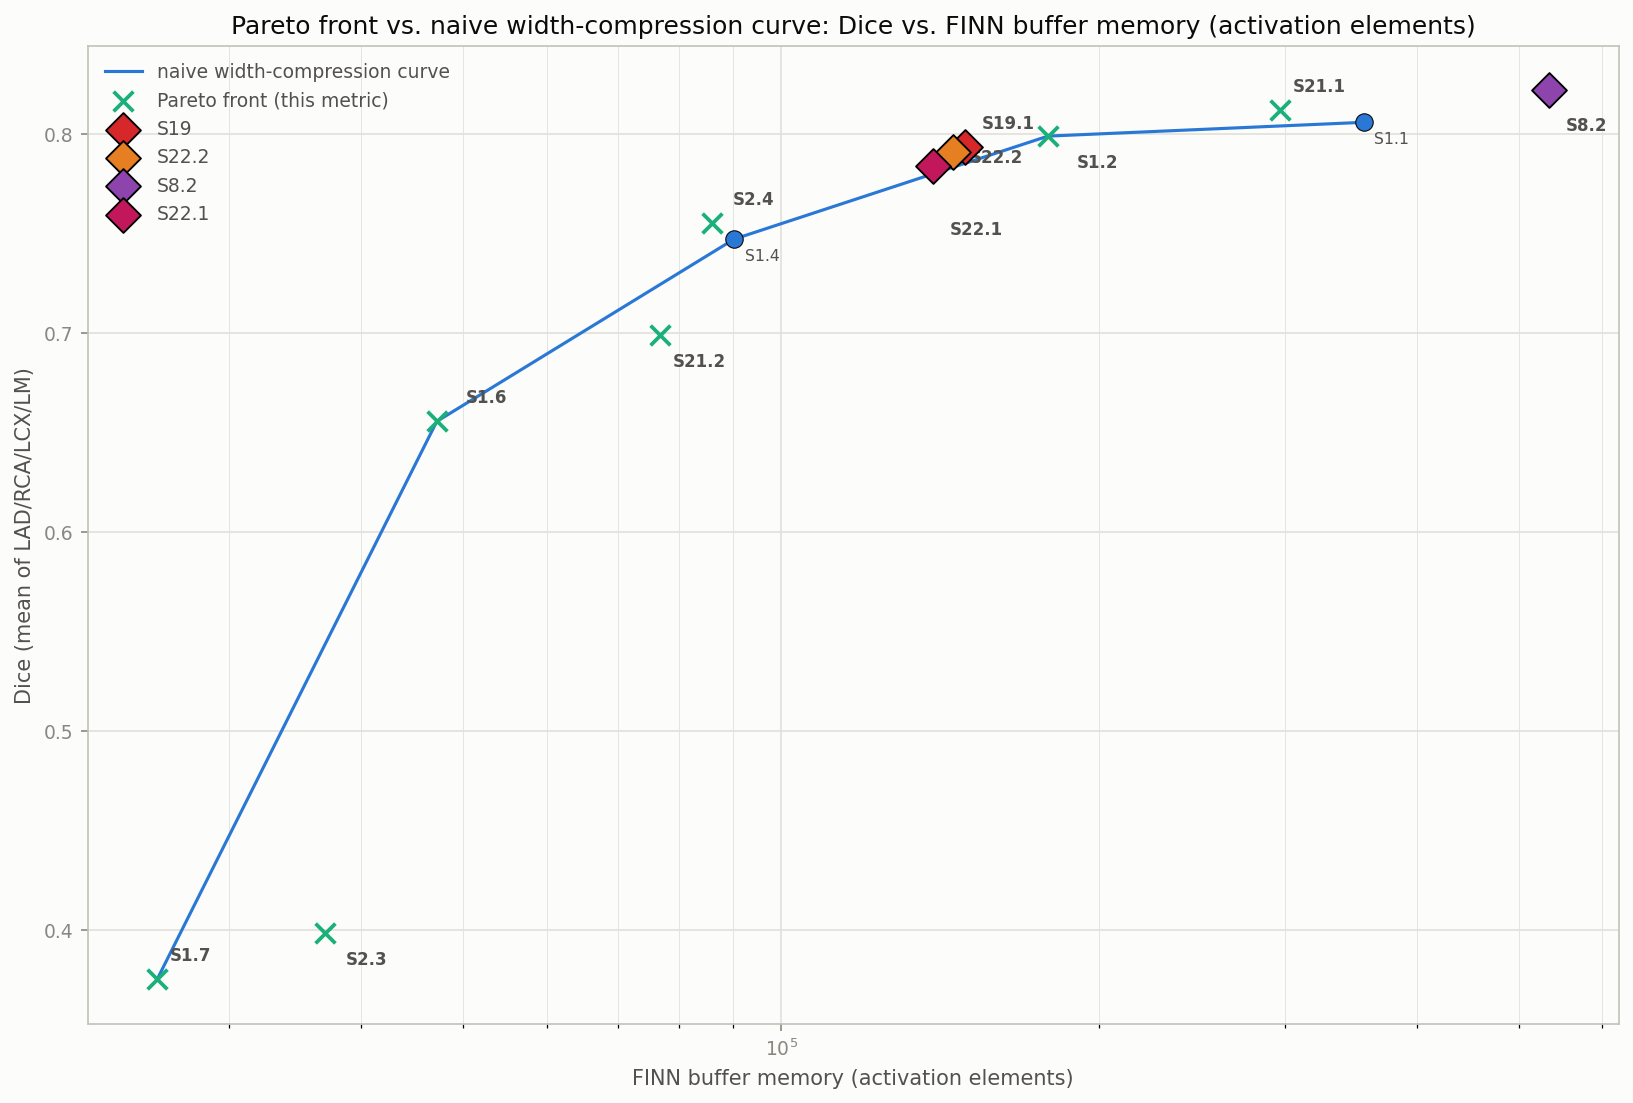
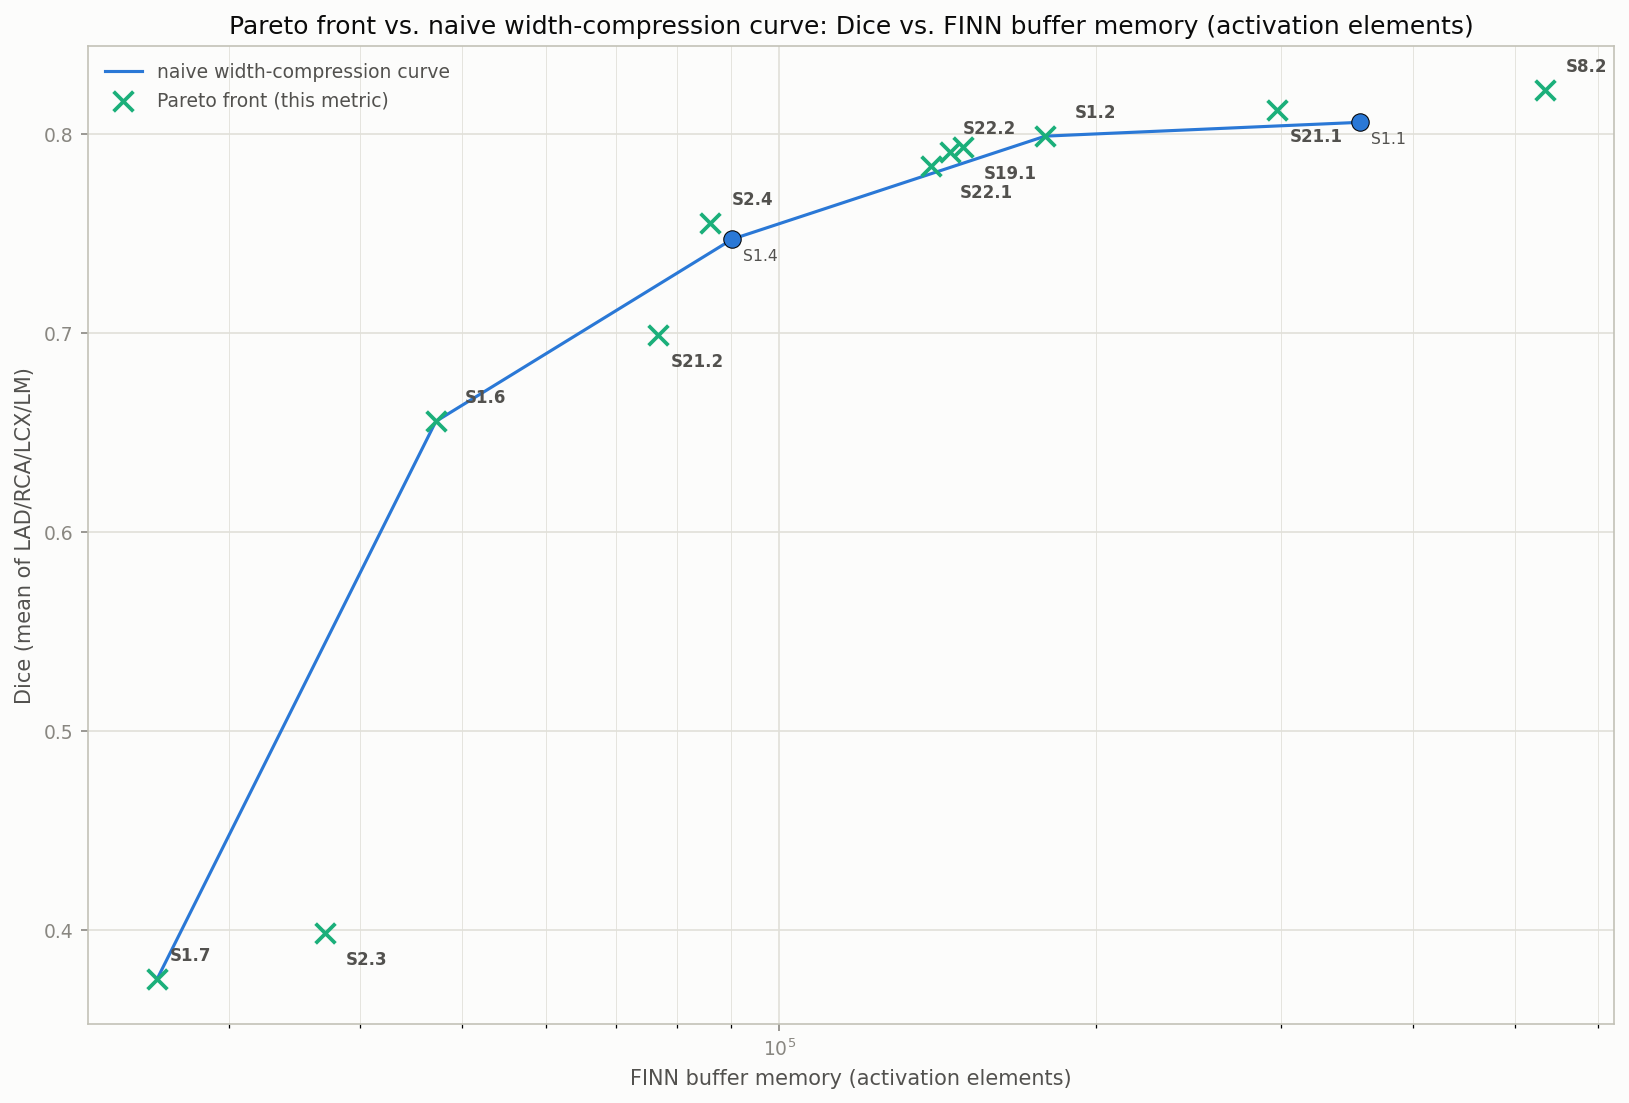
Final plots: clear all highlight diamonds (HIGHLIGHTED_CONFIGS now empty)
S19/S22.1/S22.2/S8.2 all render as normal green Pareto-front X markers
again. Dropped the now-unused S19_COLOR constant and the individual
S*_CONFIG name variables along with it.

diff --git a/compression/plot_final_width_comparison.py b/compression/plot_final_width_comparison.py
@@ -23,9 +23,10 @@ line -- unlike the naive curve, its points come from entirely different
 architectures with no shared axis between them (channel width), so a
 connecting line would visually imply a continuous tradeoff that doesn't
 exist between e.g. S9.4 and S13.1. Front markers are an X. Configs in
-HIGHLIGHTED_CONFIGS (currently just S19) always get their own colored
-diamond, drawn on top of every other layer in every figure, regardless of
-whether they're actually on that figure's own Pareto front.
+HIGHLIGHTED_CONFIGS (currently empty -- no config called out) would get
+their own colored diamond, drawn on top of every other layer in every
+figure, regardless of whether they're actually on that figure's own Pareto
+front.
 
 Only rows with a compression/config_abbreviations.csv entry are
 considered (excludes pruning-grid rows, which live in results_pruning.csv
@@ -59,7 +60,6 @@ INK, SECONDARY_INK, MUTED, GRID, SURFACE = (
 )
 NAIVE_COLOR = "#2a78d6"
 PARETO_COLOR = "#1baf7a"
-S19_COLOR = "#d6272a"
 
 NAIVE_STAGE = "1_naive_baseline"
 
@@ -69,18 +69,9 @@ NAIVE_STAGE = "1_naive_baseline"
 # actually Pareto-optimal on that particular metric, in a color that
 # distinguishes it from the rest of the front and from every other
 # highlighted config.
-S19_COLDSTART_CONFIG = "nnUNetTrainerENet_19_reginterleaved_separable_nonneg_block_double_mid"
-S22_2_CONFIG = "nnUNetTrainerENet_22_2_dsc_projected_reginterleaved_nonneg_block"
-S8_2_CONFIG = "nnUNetTrainerENet_8_2_relu"
-S22_1_CONFIG = "nnUNetTrainerENet_22_1_dsc_projected_nonneg_block"
 # value = (marker color, legend label override -- None falls back to the
 # config's own config_abbreviations.csv abbrev, e.g. S5.3's "S5.3").
-HIGHLIGHTED_CONFIGS = {
-    S19_COLDSTART_CONFIG: (S19_COLOR, "S19"),
-    S22_2_CONFIG: ("#e67e22", None),
-    S8_2_CONFIG: ("#8e44ad", None),
-    S22_1_CONFIG: ("#c2185b", None),
-}
+HIGHLIGHTED_CONFIGS: dict[str, tuple[str, str | None]] = {}
 
 # Runs trained via nnU-Net's own -pretrained_weights transfer (warm-started
 # from an already-trained checkpoint) rather than from scratch, so their
